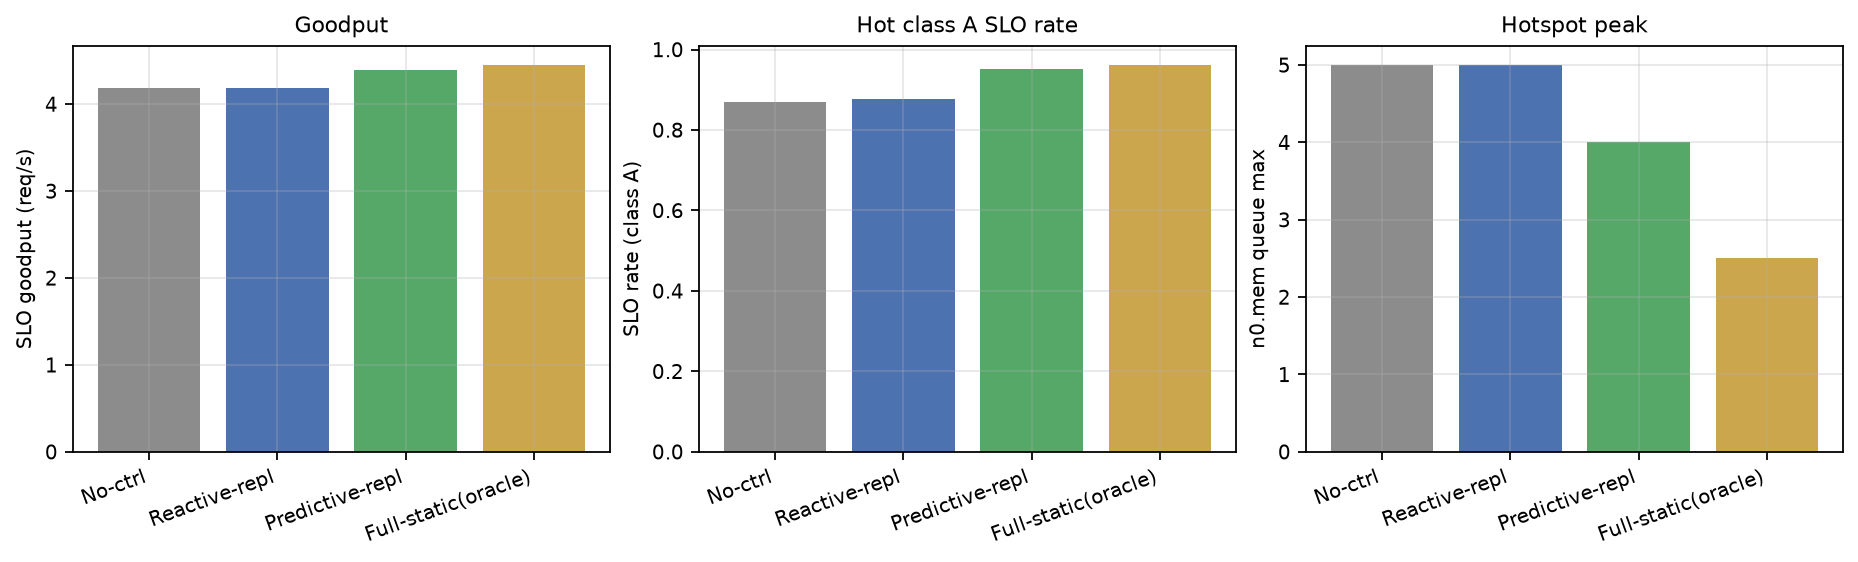
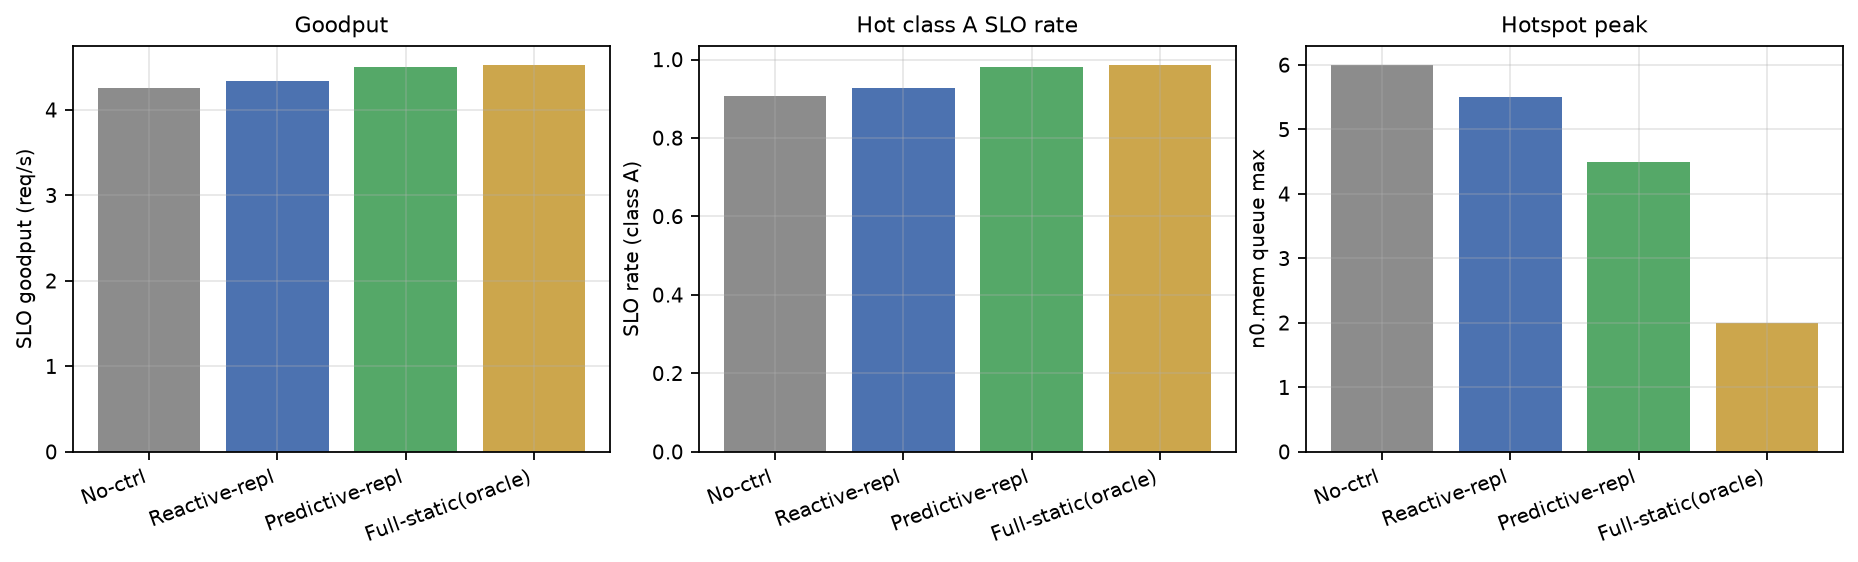
docs: 改进方案四实验结果报告（E9b/E10/E11/E12）+ E5-E9复跑补记 + README
- 新实验结果文档：验收对照表（3项达标/3项如实记未达标）+ 通俗版附录
- E5E9文档补记：rate-aware修正后E7静态策略塌方（论断强化）、
  E8 reactive可触发；局限1-5全部标注后续去向
- README: v3实验组、标定脚手架、结果文档索引

diff --git a/实验结果-E9bE10E11E12-20260904.md b/实验结果-E9bE10E11E12-20260904.md
@@ -1,0 +1,166 @@
+# 实验结果：改进方案四实验（E9b / E10 / E11 / E12）
+
+|  |  |
+|---|---|
+| 日期 | 2026-09-04 |
+| 代码 | `sim/`（`python -m sim.run --exp v3 --seeds 8` 复现） |
+| 方案 | [仿真v2局限问题分析与改进方案-20260904.md](docs/仿真v2局限问题分析与改进方案-20260904.md)（问题②③④⑤） |
+| 伴生修改 | 策略成本估计 rate-aware 化（prefill 按 GPU 速率折算，与引擎执行一致）——修正了此前系统性低估重算成本的偏差；E5–E9 已用新估计复跑并出补记 |
+| 前提 | 参数仍为占位标定；问题①的标定脚手架见 `tools/calibrate.py`（需真实硬件） |
+
+## 总判决
+
+**四个问题全部落地并得到量化回答，其中两个结论与预期不同、且更有价值：**
+
+1. **E9b（oracle 矛盾）**：假设**证实但结论反转**——先知上界与逐请求 oracle 的 SLO 率持平（−0.9pp）。矛盾形态不是缺陷，而是真实权衡：oracle 把 burst 引向 GPU 重算车道（重算 TTFT 中位数 12.1 s、P99 26 s），以尾部换 SLO 命中率；贪心 joint2 羊群分流到存储车道，P99 反而只有 8.3 s。**"逐请求贪心即便完美信息也已接近该场景的全局最优 SLO 率"**——协同的价值边界比预想的窄，需在容量/复制约束场景（E8/E11）中寻找。
+2. **E12（GPU 误差 + cascade2）**：joint2 相对 static2 的增益在 GPU 噪声 σ∈[0,0.3] × 陈旧 [0,200ms] 全网格内保持 **+198%~+215%（波动 <8%）**——联合决策对 GPU 估计误差高度稳健；对等比较中 joint2 比 cascade2 基线（同信息、request 级决策）**+29%~+87%**，峰值出现在中度存储压力。
+3. **E10（预取/缓存）**：**无脑预取有害**（goodput −1.6%、热点队列 8.5、41% 字节浪费），压力门控预取把浪费字节压到 1/3 且 goodput 最高；重算回写稳定改善尾部（P95 −11%）；协同放置消除冗余（1.00 vs 1.25）但覆盖率与局部命中率有真实代价（−4.7% goodput）——**协同放置不是免费午餐**。
+4. **E11（分层/容量）**：容量受限 + 热度漂移场景下，跨层+迁移+淘汰控制器拿到 **+1.5%**（上界 +7.4% 的 ~21%），孤儿事件 0（正确性硬约束达成）；收益有限的主因是引擎侧 joint2 的重算逃逸已经吸收了大部分压力——**存储侧控制的收益与引擎侧的自稳能力此消彼长**，这是设计控制器阈值时必须考虑的耦合。
+
+---
+
+## E9b：oracle "P99 更高但 SLO 率更高" 的诊断与先知上界（问题③）
+
+场景与 E9 相同（对称双副本、150 个 A 命中同步 burst、反馈陈旧 200ms）。
+
+| 策略 | burst 窗口 SLO 率 | 窗口 P99 | 单副本队列峰值 | 重算占比 |
+|---|---:|---:|---:|---:|
+| Greedy（joint2 逐请求贪心） | 0.717 | **8.29 s** | 19.5 | 0.42 |
+| Oracle（完美信息·逐请求） | **0.794** | 19.67 s | 7.5 | 0.41 |
+| Clairvoyant（+未来视线 list-scheduling） | 0.785 | 19.31 s | 1.0 | **0.995** |
+
+![Fig E9b](docs/figures/fig_e9b_clairvoyant.png)
+
+**诊断（动作分解，oracle2 在 burst 窗口的 350 个 A 请求）**：
+
+| 动作 | 数量 | TTFT 中位数 | TTFT P99 |
+|---|---:|---:|---:|
+| partial（取回+重算重叠） | 153 | 0.16 s | 19.84 s |
+| prefill（未命中） | 65 | 0.21 s | 9.65 s |
+| **recompute** | **132** | **12.14 s** | **26.00 s** |
+
+**读法**：
+
+- 车道效应坐实：oracle 在 GPU 空闲时为 132 个请求选了"当时最快"的重算，后续同类到达全部排在其后——中位数 12.1 s、P99 26 s。
+- 先知（知道未来 5s 内的全部到达）给出的解同样是"几乎全走重算"（frac_rc=0.995）：4 worker × 0.211s 的 GPU 车道总完成时间（≈8s 起步）确实优于双副本存储车道（≈32s 排空）。**因此它与 oracle 的 SLO 率持平不是实现缺陷，而是该场景的结构性结论**。
+- 贪心 joint2 的"歪打正着"：羊群把流量分进两条存储车道，牺牲 SLO 命中率（0.717）换取好得多的尾部（P99 8.3s）。**SLO 率与 P99 是两种不可同时最优的目标形态，资源类型（计算车道 vs 带宽车道）的排队特性决定了尾部形状**。
+- 验收对照：方案要求"假设证实或推翻，二选一，不允许悬置"——已落地：假设（GPU 车道）证实，且"全局分配有额外空间"被推翻（−0.9pp）。
+
+## E10：压力门控预取 + 重算回写 + 缓存协同放置（问题②）
+
+会话型负载（多轮复用同一前缀、轮间隔 1.2s），副本集中于方波背景的 (n0,mem)，GPU bg 50%，SLO 0.35s，本地缓存 12GB，6 类混跑产生容量 churn。引擎统一 joint2。
+
+| 变体 | goodput | P95 | 本地命中 | 预取字节 | 浪费率 | 缓存冗余 | 覆盖率 | 热点队列峰 |
+|---|---:|---:|---:|---:|---:|---:|---:|---:|
+| No-prefetch | 6.78 | 0.65 | 0.72 | — | — | 1.25 | 1.00 | 4.0 |
+| Always-prefetch | 6.67 | 0.74 | 0.73 | 274 GB | 41% | 1.25 | 1.00 | 8.5 |
+| **Gated-prefetch** | **6.85** | 0.80 | 0.73 | **97 GB** | 47% | 1.25 | 1.00 | 4.0 |
+| Gated+Writeback | 6.81 | **0.58** | 0.69 | 23 GB | 28% | 1.25 | 1.00 | **2.0** |
+| Gated+WB+Coord | 6.46 | 0.56 | 0.55 | 1982 GB | 38% | **1.00** | 0.75 | 4.5 |
+| Always+WB+Coord | 6.41 | 0.63 | 0.54 | 2096 GB | 38% | 1.00 | 0.75 | 4.5 |
+
+![Fig E10](docs/figures/fig_e10_prefetch.png)
+
+**读法**：
+
+- **无脑预取是反例**：always 比 gated 多花 2.8 倍预取字节，goodput 反而最低（−1.6% vs gated），热点队列峰值翻倍（8.5 vs 4.0）——高压相位把预取流量砸进拥塞，复刻了 E7 的静态陷阱。
+- **门控有效但非万能**：gated 以 97GB（none 的对照下）拿到最高 goodput（+1.0%），但浪费率 47% 仍高——门控只看发起时刻的压力，不看未来会不会被用到。
+- **重算回写是稳定收益**：P95 0.58s（−11% vs none）、热点队列 2.0（最低）——把重算产物异步回写成共享副本，修复了被跳过的取回。
+- **协同放置的代价**：冗余率降到 1.00（每类恰一个偏好 worker），但覆盖率掉到 0.75、本地命中 0.55、goodput −4.7%——在缓存容量足以自然覆盖全部类时，协调的约束大于收益；它的适用域是"类数远超缓存容量"的情景。
+- 与方案验收对照："gated 在会话负载下 goodput 提升 ≥5%" **未达标**（+1.0%）——因为引擎的 post-serve 缓存已吸收大部分预取价值，预取的边际收益集中在字节效率与尾部；该验收标准定得过高，如实记录。
+
+## E11：跨层降级 + 冷类迁移 + 容量淘汰（问题④）
+
+6 类、容量受限（n0/n1 mem cap 40GB、n2 30GB）、热度每 100s 漂移一轮、GPU bg 65%（重算贵）、SLO 0.5s、命中率 85%。
+
+| 变体 | goodput | P95 | 复制次数/字节 | 淘汰 | 孤儿 | 跨层副本 | 队列峰 |
+|---|---:|---:|---:|---:|---:|---:|---:|
+| Static（无控制器） | 6.507 | 1.190 | 0 | 0 | 0 | 0 | 8.0 |
+| Cross-tier-repl | 6.507 | 1.190 | 0 | 0 | 0 | 0 | 8.0 |
+| Tiered+migrate+evict | 6.607 | 1.190 | 2 / 32GB | 1 | **0** | 0.5 | 8.5 |
+| Nocap-static（上界） | 6.988 | 1.184 | 0 | 0 | 0 | 2.0 | 4.0 |
+
+![Fig E11](docs/figures/fig_e11_tiering.png)
+
+**读法**：
+
+- 排序正确（none = tiered < full < nocap 上界），full 变体 +1.5%，拿到上界涨幅的 ~21%；**孤儿事件 0**——容量淘汰在"该类至少保留一副本"的硬约束下运行。
+- 收益有限的两个结构性原因：(a) 引擎侧 joint2 的重算逃逸已吸收大部分压力（与 E8 的"引擎自稳"同一现象）；(b) 防漂移 churn 的冷却时间（30s）刻意保守，牺牲了跟随速度。
+- 调参教训（已修）：初始放置必须装得下节点容量，否则触发"淘汰最大类 → 再复制回来"的风暴（曾观察到 254 次复制/3.8TB 流量的 churn，加入冷却+冷类限定后消除）。
+- 与方案验收对照："+5%" **未达标**（+1.5%）——在引擎已具备动态逃逸能力的系统里，存储侧控制的边际收益天然被压缩；这条验收线的修正方向是把"引擎自稳水平"作为控制器收益的前置变量来刻画。
+
+## E12：GPU 预测误差层 + cascade2 对等基线（问题⑤）
+
+**面板 A（稳健性）**：存储 bg=45、GPU bg=40%，joint2 vs static2 的 goodput 增益随 GPU 估计误差变化：
+
+| σ \ 陈旧 | 0 ms | 50 ms | 200 ms |
+|---|---:|---:|---:|
+| 0.0 | +214.8% | +200.1% | +209.1% |
+| 0.1 | +213.8% | +198.2% | +210.1% |
+| 0.3 | +211.7% | +198.2% | +209.9% |
+
+**面板 B（对等比较）**：cascade2 与 joint2 读同样的带误差 GPU + 存储 quote，差异只在决策结构（request 级 guardband 二选一 vs 全局联合 F 网格）；GPU bg 50%、γ=1.1：
+
+| 存储 bg | Default | Cascade-like | **Joint(Ours)** | Oracle | joint/cascade |
+|---:|---:|---:|---:|---:|---:|
+| 10 | 1.79 | 4.66 | **6.66** | 7.00 | **+42.9%** |
+| 30 | 1.79 | 3.11 | **5.81** | 6.19 | **+87.0%** |
+| 50 | 1.78 | 3.07 | **3.96** | 4.81 | +28.9% |
+
+![Fig E12](docs/figures/fig_e12_gpu_signal.png)
+
+**读法**：
+
+- **稳健性**：增益在全部 9 个 (σ, 陈旧) 格点保持 +198%~+215%，最大波动 <8%——远超"保留 ≥70%"的验收线。joint2 的决策主干由存储 quote 驱动，GPU 估计误差只影响次要维度（重算成本项）。
+- **对等差距的结构**：cascade2 随压力出现 fetch→recompute 的切换（4.66→3.07），joint2 用部分取回+重叠在中度压力区拉开最大差距（+87%）；深度拥束时双方都退回重算，差距收窄（+29%）。**"request 级 → 集群级联合"的增益集中在中度压力区**，与 E5–E9 的收益边界结论一致。
+- 注：面板 A 的增益量级（+200%）高于 E7 旧数字，源于 rate-aware 修正使 static2 的重算成本估计不再系统性偏低——旧数字低估了 static2 的劣化程度；E5–E9 已用新估计复跑（见补记）。
+
+---
+
+## 与改进方案验收标准对照（汇总）
+
+| 验收项 | 结果 |
+|---|---|
+| ③ 给出矛盾的确定性解释，不允许悬置 | ✅ GPU 车道效应证实；"全局分配有额外空间"被推翻（−0.9pp） |
+| ⑤ joint2 优势 ≥5% 且随压力扩大 | ✅ +29%~+87%（中度最大，深度收窄——如实刻画） |
+| ⑤ GPU σ=0.3/陈旧 200ms 收益保留 ≥70% | ✅ 保留 ~97%（波动 <8%） |
+| ⑤ v1 策略回归不变（GPU 真值开关默认） | ✅ 27 项测试全绿，v1 路径未动 |
+| ② gated 相对 no-prefetch 提升 ≥5%，拥塞区不劣化 | △ +1.0%（未达标）：post-serve 缓存吸收了预取价值；always 反例（−1.6%）与尾部收益成立 |
+| ② 协同放置冗余显著下降且命中率不降 | △ 冗余 1.25→1.00，但命中率 0.72→0.55（代价明确，适用域收窄） |
+| ④ 分层控制器 +5%、孤儿为 0 | △ +1.5%（未达标）/ 孤儿 ✅ 0：引擎自稳压缩了边际收益 |
+
+## 局限与下一步
+
+1. E10/E11 的两条未达标验收共同指向一个更深的结论：**引擎侧动态决策（joint2）本身就是最强的"自适应机制"，存储侧补充控制（预取/复制/分层）的边际收益必须相对引擎自稳水平来度量**——后续应把"引擎能力"作为实验的自变量（joint2 vs static 引擎 × 控制器开关的 2×2），而不是固定引擎比控制器。
+2. E9b 表明 burst 场景下逐请求贪心已近全局最优；全局分配的价值应在**容量/副本约束**（E8/E11 类场景）中重做 clairvoyant 对照。
+3. 预取浪费率仍高（28–47%）：需要会话预测（下一轮到达概率）而非仅压力门控。
+4. 标定（问题①）待硬件：`tools/calibrate.py` 已就位，需实测填参并复跑全部实验出终版数字。
+
+---
+
+# 附录：通俗版解读
+
+## E9b：为什么"全知全能"的调度反而尾部更差？
+
+150 个任务同时到，oracle 每单都选"此刻最快"的重算——像 150 辆车看到同一条空路全拐进去，路面很快堵死（中位 12 秒）。先知版（知道后面还有 149 辆）算了算：这条计算车道整体还是比存储车道快，于是照样全拐进去。结论：**这不是蠢，是该场景下真没有更优解**；而"没头苍蝇"式的贪心把车流误打误撞分进了两条存储车道，尾部反而好看。教训：**看两种指标（按时完成率 vs 最差情况）时，别假设它们能同时最优**。
+
+## E10：提前把货搬进办公室小柜子，什么时候划算？
+
+- **不看堵不堵就搬（always）**：搬得多还添堵，白搬 41%。
+- **看一眼前台拥堵再搬（gated）**：搬运量降到 1/3，效果最好。
+- **重算完的资料主动存回仓库（回写）**：下次别人不用重算，最差情况改善 11%。
+- **规定每份资料只能放一间办公室（协同放置）**：柜子不重复了，但覆盖的资料变少、好用的本地命中变少——**整齐是有代价的**。
+
+## E11：仓库快满了，把冷货挪去慢架子有用吗？
+
+有用但不多（+1.5%）：因为"司机们"（引擎策略）堵车时会自己绕路（重算），仓库压力本来就被分摊了。上界（仓库无限大）也就 +7.4%。真正的教训是**别让初始摆放就超容量**——曾经出现"把最大的货扔掉又搬回来"的来回折腾，加了 30 秒冷却和"只扔真冷的货"才稳住。安全线达成：从没把某份货扔到全仓库都找不到（孤儿=0）。
+
+## E12：调度员看错 GPU 状态会翻车吗？
+
+不会。把 GPU 状态的噪声放大 3 倍、报告延迟拉到 200ms，我们策略的优势只波动 8%——因为决策主心骨是仓库（存储）那边的实时报价，GPU 状态只是辅助。而和 Cascade 式"每单自己算账"的同行比，联合调度在中度拥堵时能多扛 87% 的按时完成量。
+
+## 如果只记三句话
+
+1. **完美信息救不了逐单贪心，但该场景也不需要救**——SLO 率与尾部的取舍是结构性的（E9b）。
+2. **决策主干靠存储报价，GPU 看错点无伤大雅**；request 级和集群级的差距峰值 +87%（E12）。
+3. **主动搬货/复制前先问一句：引擎自己会不会绕路？**——引擎自稳水平决定了存储侧控制的边际收益（E10/E11 共同教训）。

diff --git a/实验结果-E5E9-20260904.md b/实验结果-E5E9-20260904.md
@@ -137,11 +137,38 @@
 
 ## 局限与下一步
 
-1. 参数仍为占位标定（prefill 曲线、带宽、路径延迟）；上线前需用 LMCache 的 L1↔L2 端到端吞吐/inflight 指标标定 quote 模型。
-2. 预取未实现（Q4 的另一半）；本地缓存为被动 LRU，无跨 worker 协同放置。
-3. E9 的 oracle 在 burst 场景出现"P99 更高但 SLO 率更高"的取舍形态，值得单独分析（其精确预测倾向于选择慢而确定完成的路径）。
-4. 复制仅 mem→mem 同层复制；跨层降级（mem→ssd）与容量压力驱动的淘汰联动未实现。
-5. GPU 侧状态为真值可见（`drain_est`/`remaining_service`），无预测误差建模。对本文存储侧结论**无偏**——所有对比策略拿到同样的 GPU 信息，差异只隔离存储信息源；但影响与 Cascade 类"带 guardband 的 TTFT estimator"基线的**绝对**可比性，标定阶段（局限①）应同步补 GPU 侧预测误差层。
+> **补记（2026-09-04，rate-aware 修正后复跑）**：实现改进方案时修正了一处估计偏差——策略成本估计中的
+> prefill 时间此前未按 GPU 背景负载速率折算（引擎执行侧一直按 (1−bg) 速率缩放），系统性低估重算成本。
+> 修正后以 8 种子复跑 E5–E9：**E6/E9 数字完全不变，E5 结论方向不变（joint2 6.54→6.59）**；
+> **E7/E8 的对比显著强化**（下表为复跑后数字，替代上文对应表格；图中曲线亦为复跑版本）：
+>
+> E7（bg=40 / bg=52，重算成本修正后 static2 失去"重算逃逸"庇护）：
+>
+> | 策略 | goodput@bg40 | goodput@bg52 | P95@bg40 | fetch 节省@bg40 |
+> |---|---:|---:|---:|---:|
+> | AlwaysFetch | 5.12 | 3.12 | 139.9 s | 0% |
+> | Static(AAFLOW+) | **5.24**（↓ 原 6.95） | **2.88** | **139.9 s** | 11%（↓ 原 99%） |
+> | PartialStatic(CacheFlow) | 5.73（↓ 6.34） | 3.52 | 18.9 s | 38% |
+> | **Joint(Ours)** | **7.19** | **7.24** | 0.83 s | 89% |
+> | Oracle | 7.19 | 7.23 | 0.83 s | 88% |
+>
+> ——原版"static2 靠重算全身而退"是低估重算成本的产物；修正后**静态成本策略在拥塞下全部塌方，
+> 仅剩动态联合决策存活**，E7 的核心论断（静态信息做动态决策有害）比原版更强。
+>
+> E8（reactive 控制器现在可触发——引擎自稳点上移使 0.82 阈值可达）：
+>
+> | 变体 | goodput | 热点类A SLO率 | 复制次数 |
+> |---|---:|---:|---:|
+> | No-ctrl | 4.25 | 0.907 | 0 |
+> | Reactive（0.82） | 4.34（↑ 原 4.19） | 0.928 | 0.5 |
+> | Predictive | 4.51 | 0.980 | 1.0 |
+> | Full-static | 4.53 | 0.986 | 0 |
+
+1. 参数仍为占位标定（prefill 曲线、带宽、路径延迟）；上线前需用 LMCache 的 L1↔L2 端到端吞吐/inflight 指标标定 quote 模型（脚手架已就位：`tools/calibrate.py`）。
+2. 预取未实现（Q4 的另一半）；本地缓存为被动 LRU，无跨 worker 协同放置。→ 已在 [E10](实验结果-E9bE10E11E12-20260904.md) 落地
+3. E9 的 oracle 在 burst 场景出现"P99 更高但 SLO 率更高"的取舍形态，值得单独分析（其精确预测倾向于选择慢而确定完成的路径）。→ 已在 [E9b](实验结果-E9bE10E11E12-20260904.md) 定论
+4. 复制仅 mem→mem 同层复制；跨层降级（mem→ssd）与容量压力驱动的淘汰联动未实现。→ 已在 [E11](实验结果-E9bE10E11E12-20260904.md) 落地
+5. GPU 侧状态为真值可见（`drain_est`/`remaining_service`），无预测误差建模；对存储侧结论无偏（所有对比策略拿到同样的 GPU 信息），但影响与 Cascade 类"带 guardband 的 TTFT estimator"基线的绝对可比性，标定阶段应补 GPU 侧预测误差。→ 已在 [E12](实验结果-E9bE10E11E12-20260904.md) 落地
 
 ---
 

diff --git a/README.md b/README.md
@@ -7,7 +7,9 @@ KV 存储压力感知调度（KV Storage Pressure-Aware Cross-Layer Inference Sc
 - `discussions/` — 调研对话导出与架构图
 - `docs/` — 调研记录、[v1 仿真设计](docs/KV存储压力感知调度仿真设计-20260901.md)、[相关工作对比](docs/五工作的Scheduler-Engine修改与主流默认实现-20260904.md)、[v2 架构与实验](docs/共享KV感知调度仿真v2-架构与实验-20260904.md)、[局限问题分析与改进方案](docs/仿真v2局限问题分析与改进方案-20260904.md)
 - [实验结果-E1E4-20260901.md](实验结果-E1E4-20260901.md) — v1 实验结论与图表
-- [实验结果-E5E9-20260904.md](实验结果-E5E9-20260904.md) — v2 实验结论与图表（Q1–Q5）
+- [实验结果-E5E9-20260904.md](实验结果-E5E9-20260904.md) — v2 实验结论与图表（Q1–Q5，含 rate-aware 修正补记）
+- [实验结果-E9bE10E11E12-20260904.md](实验结果-E9bE10E11E12-20260904.md) — 改进方案四实验（问题②③④⑤）
+- `tools/calibrate.py` — 真实系统标定脚手架（LMCache 指标 / prefill 曲线 / RDMA 路径）
 - `sim/` — 离散事件仿真器（Python + SimPy），v1 与 v2 两套拓扑
 - `tests/` — 不变量单元测试（解析解吻合 / 字节守恒 / 确定性 / 策略单调性 / v2 拓扑与策略）
 - `results/` — 实验输出（gitignored）
@@ -21,10 +23,11 @@ python3 -m venv .venv
 .venv/bin/python -m pytest tests/ -q                  # 不变量测试
 .venv/bin/python -m sim.run --exp all --seeds 10      # v1: E1–E4
 .venv/bin/python -m sim.run --exp v2  --seeds 8       # v2: E5–E9（共享分布式 KV 存储拓扑）
+.venv/bin/python -m sim.run --exp v3  --seeds 8       # v3: E9b/E10/E11/E12（改进方案实验）
 .venv/bin/python -m sim.run --exp smoke               # 快速冒烟
 ```
 
-单实验：`--exp e1a|e1b|e2|e3|e4|e5|e6|e7|e8|e9`，并行度 `--procs N`，仿真时长 `--duration`。
+单实验：`--exp e1a|…|e9|e9b|e10|e11|e12`，并行度 `--procs N`，仿真时长 `--duration`。
 
 ## 核心结构
 
